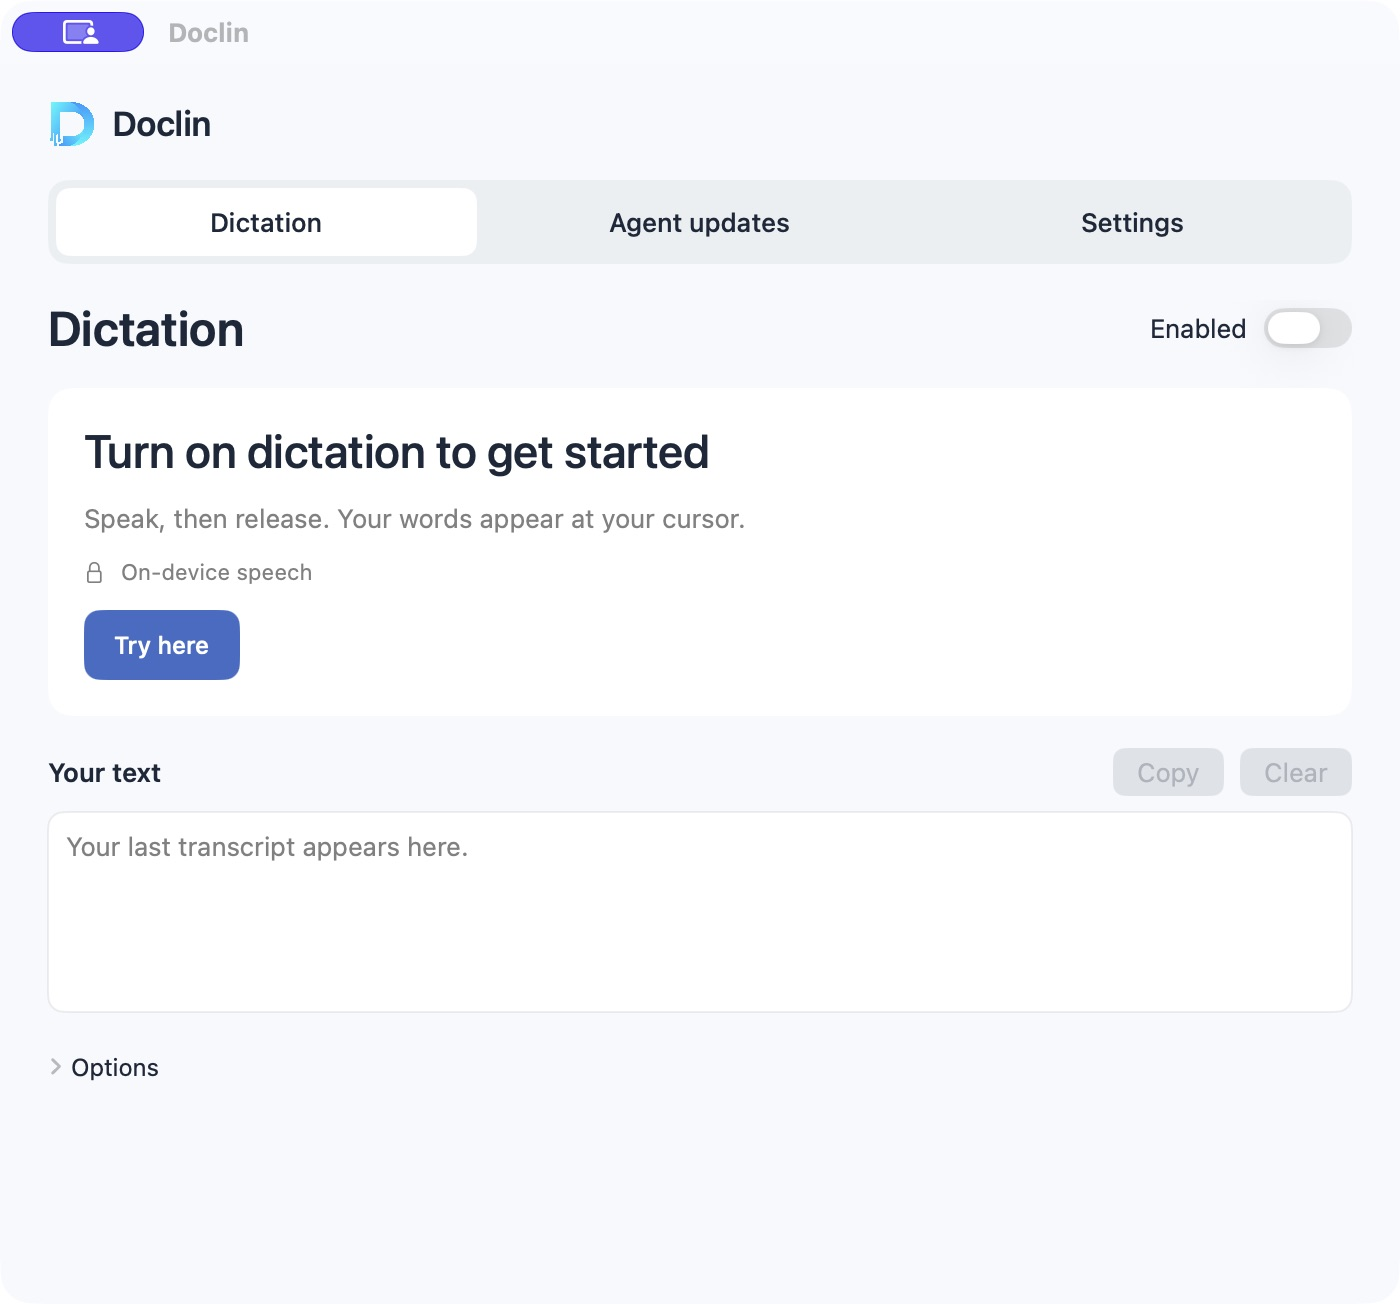
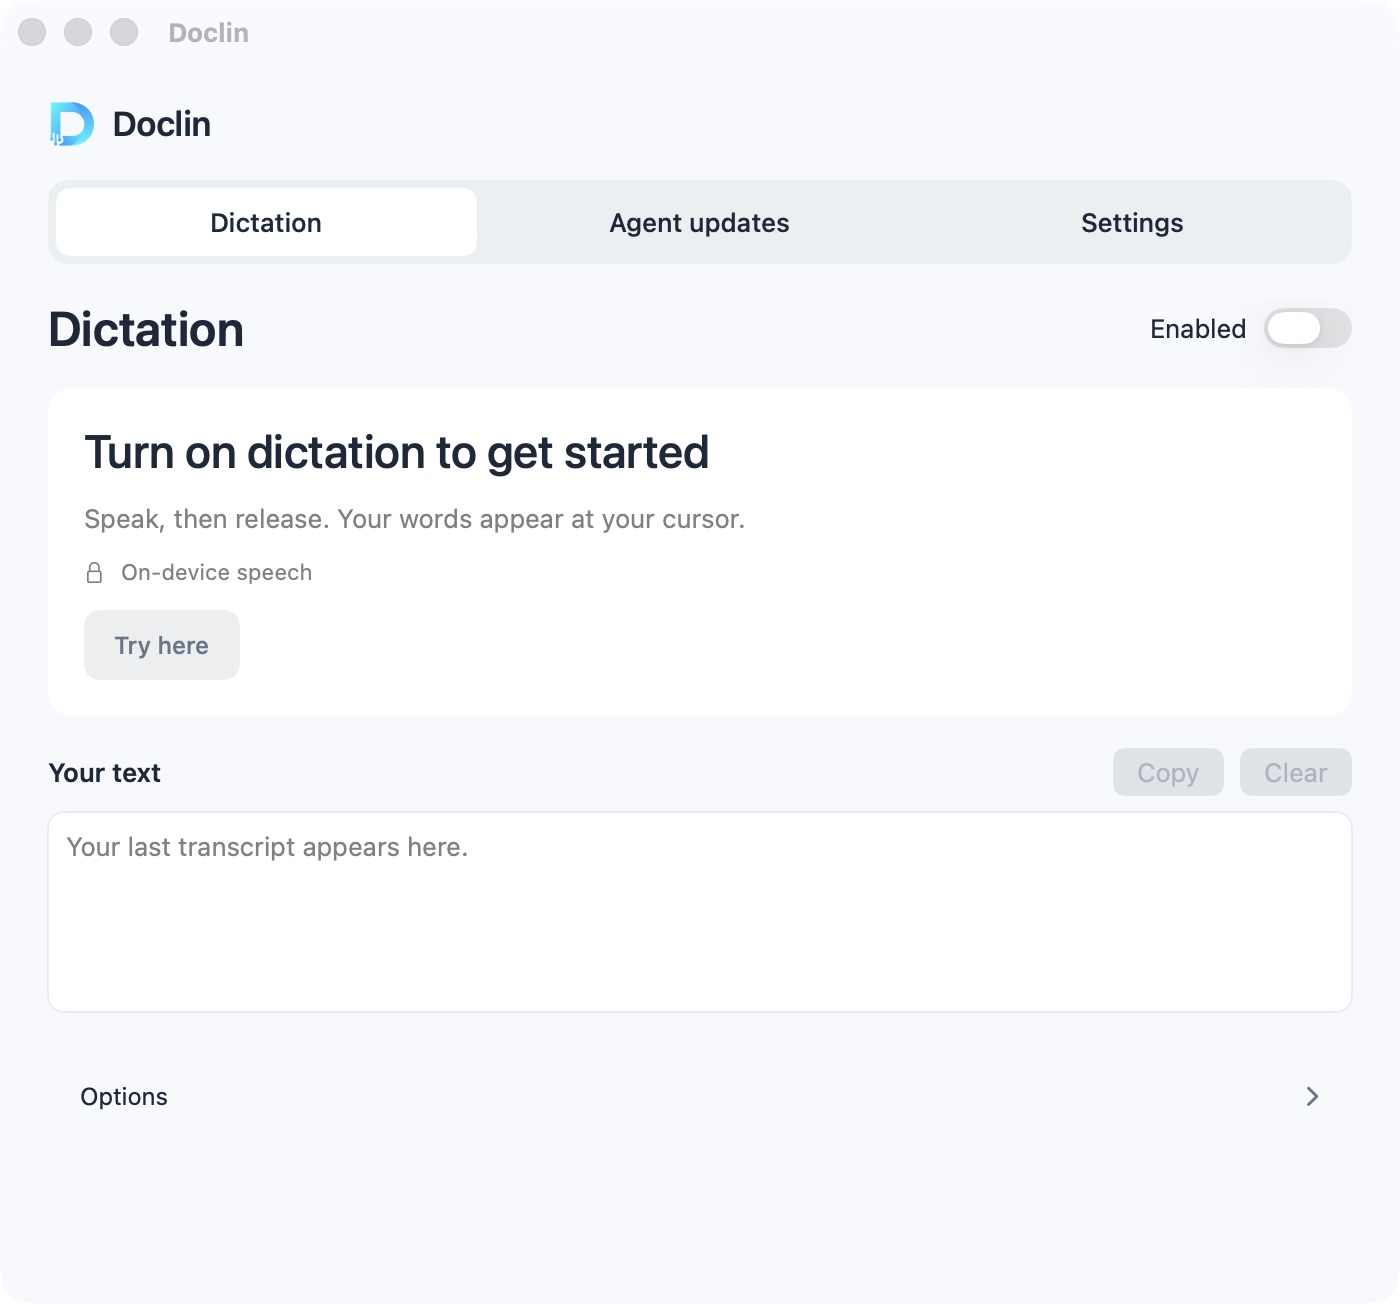
Make Doclin controls responsive and consistently clickable (#8)
* Remove oversized image decoding and hidden controls from tab rendering

* Use whole settings rows and accept first background clicks

* Make unavailable primary actions visibly disabled

* Refresh screenshots for final interactive controls

---------

Changed region(s): [[0.0614, 0.4601, 0.1843, 0.5215], [0.0, 0.0, 0.1229, 0.0613], [0.0307, 0.7975, 0.1229, 0.8589]]

diff --git a/Sources/Doclin/Views.swift b/Sources/Doclin/Views.swift
@@ -8,18 +8,23 @@ private let accent = Color(red: 0.255, green: 0.424, blue: 0.78)
 private let mutedInk = Color(red: 0.40, green: 0.46, blue: 0.54)
 
 struct DoclinView: View {
+    private static let logo: NSImage? = {
+        guard let url = Bundle.main.url(forResource: "DoclinLogo", withExtension: "png") else { return nil }
+        return NSImage(contentsOf: url)
+    }()
     @ObservedObject var model: AppModel
     @State private var apiKey = ""
     @State private var codexPath = ""
     @State private var allUpdates = false
     @State private var cloudOptions = false
+    @State private var hoveredTab: String?
     private var section: String {
         ["Connections", "Voice & AI", "Preferences", "Settings"].contains(model.tab) ? "Settings" : model.tab
     }
     var body: some View {
         VStack(spacing: 0) {
             HStack {
-                if let path = Bundle.main.url(forResource: "DoclinLogo", withExtension: "png"), let logo = NSImage(contentsOf: path) {
+                if let logo = Self.logo {
                     Image(nsImage: logo).resizable().scaledToFit().frame(width: 24, height: 24)
                 } else {
                     Image(systemName: "waveform").foregroundColor(accent)
@@ -32,9 +37,10 @@ struct DoclinView: View {
                     Button { model.tab = name } label: {
                         Text(name == "Activity" ? "Agent updates" : name).font(.system(size: 13, weight: .medium))
                             .frame(maxWidth: .infinity).padding(.vertical, 9)
-                            .background(section == name ? Color.white : .clear, in: RoundedRectangle(cornerRadius: 7))
+                            .background(section == name ? Color.white : hoveredTab == name ? Color.white.opacity(0.55) : .clear, in: RoundedRectangle(cornerRadius: 7))
                             .contentShape(Rectangle())
-                    }.buttonStyle(.plain)
+                    }.buttonStyle(DoclinTabButton()).onHover { hoveredTab = $0 ? name : nil }
+                        .accessibilityValue(section == name ? "Selected" : "")
                 }
             }.padding(4).background(ink.opacity(0.05), in: RoundedRectangle(cornerRadius: 10))
                 .padding(.horizontal, 24).padding(.bottom, 18)
@@ -56,6 +62,8 @@ struct DoclinView: View {
                 }.padding(.horizontal, 24).padding(.bottom, 20)
             }
         }.frame(minWidth: 620, minHeight: 520).background(canvas).foregroundColor(ink).preferredColorScheme(.light)
+        .buttonStyle(.bordered).controlSize(.regular)
+        .disclosureGroupStyle(DoclinDisclosureStyle())
         .onAppear { codexPath = model.preferences.codexHome }
     }
     private var settingsPage: some View {
@@ -68,10 +76,10 @@ struct DoclinView: View {
     }
     private func settingSection<Content: View>(_ title: String, systemImage: String, route: String, @ViewBuilder content: @escaping () -> Content) -> some View {
         DisclosureGroup(isExpanded: Binding(get: { model.tab == route }, set: { model.tab = $0 ? route : "Settings" })) {
-            content().padding(.top, 12)
+            if model.tab == route { content().padding(.top, 12).padding(.horizontal, 16) }
         } label: {
             Label(title, systemImage: systemImage).font(.system(size: 14, weight: .medium))
-        }.padding(16).background(Color.white, in: RoundedRectangle(cornerRadius: 10))
+        }.background(Color.white, in: RoundedRectangle(cornerRadius: 10))
     }
     private var activity: some View {
         VStack(alignment: .leading, spacing: 16) {
@@ -150,7 +158,7 @@ struct DoclinView: View {
                 Text("Runs on your Mac. If playback fails, the update stays in Agent updates.").font(.system(size: 11)).foregroundColor(mutedInk)
                 HStack { Text("Volume").frame(width: 65, alignment: .leading); Slider(value: binding(\.volume), in: 0...1); Text("\(Int(model.preferences.volume * 100))%").frame(width: 35) }.font(.system(size: 12))
                 HStack { Text("Speed").frame(width: 65, alignment: .leading); Slider(value: binding(\.rate), in: 0.8...1.5); Text(String(format: "%.1f×", model.preferences.rate)).frame(width: 35) }.font(.system(size: 12))
-                Button("Preview voice") { model.preview() }.buttonStyle(DoclinButton())
+                Button("Preview voice") { model.preview() }.buttonStyle(DoclinButton()).disabled(model.preferences.muted)
             }
             DisclosureGroup("Cloud features", isExpanded: $cloudOptions) {
               card {
@@ -204,7 +212,42 @@ struct DoclinView: View {
     }
 }
 struct DoclinButton: ButtonStyle {
+    @Environment(\.isEnabled) private var isEnabled
     func makeBody(configuration: Configuration) -> some View {
-        configuration.label.font(.system(size: 12, weight: .medium)).padding(.horizontal, 15).padding(.vertical, 10).foregroundColor(.white).background(accent.opacity(configuration.isPressed ? 0.8 : 1), in: RoundedRectangle(cornerRadius: 8))
+        configuration.label.font(.system(size: 12, weight: .medium)).padding(.horizontal, 15).padding(.vertical, 10)
+            .foregroundColor(isEnabled ? .white : mutedInk)
+            .background(isEnabled ? accent.opacity(configuration.isPressed ? 0.8 : 1) : ink.opacity(0.08), in: RoundedRectangle(cornerRadius: 8))
+            .contentShape(Rectangle())
+    }
+}
+struct DoclinTabButton: ButtonStyle {
+    func makeBody(configuration: Configuration) -> some View {
+        configuration.label.opacity(configuration.isPressed ? 0.65 : 1).contentShape(Rectangle())
+    }
+}
+struct DoclinDisclosureStyle: DisclosureGroupStyle {
+    func makeBody(configuration: Configuration) -> some View {
+        DoclinDisclosureRow(configuration: configuration)
+    }
+}
+private struct DoclinDisclosureRow: View {
+    let configuration: DisclosureGroupStyleConfiguration
+    @State private var hovered = false
+    var body: some View {
+        VStack(alignment: .leading, spacing: 0) {
+            Button { configuration.isExpanded.toggle() } label: {
+                HStack(spacing: 10) {
+                    configuration.label
+                    Spacer(minLength: 12)
+                    Image(systemName: configuration.isExpanded ? "chevron.down" : "chevron.right")
+                        .font(.system(size: 11, weight: .semibold)).foregroundColor(mutedInk)
+                        .accessibilityHidden(true)
+                }.frame(maxWidth: .infinity, minHeight: 44, alignment: .leading)
+                    .padding(.horizontal, 16).padding(.vertical, 4).contentShape(Rectangle())
+                    .background(hovered ? accent.opacity(0.06) : .clear, in: RoundedRectangle(cornerRadius: 7))
+            }.buttonStyle(DoclinTabButton()).onHover { hovered = $0 }
+                .accessibilityValue(configuration.isExpanded ? "Expanded" : "Collapsed")
+            if configuration.isExpanded { configuration.content.padding(.bottom, 12) }
+        }
     }
 }

diff --git a/Sources/Doclin/main.swift b/Sources/Doclin/main.swift
@@ -2,6 +2,12 @@ import AppKit
 import SwiftUI
 import DoclinCore
 
+final class DoclinHostingView<Content: View>: NSHostingView<Content> {
+    // A background-window click should activate its control as well as focus
+    // Doclin, rather than requiring a second click after activation.
+    override func acceptsFirstMouse(for event: NSEvent?) -> Bool { true }
+}
+
 // Hook mode does no UI work, network requests, or agent control. Always fail open.
 if CommandLine.arguments.contains("--doclin-hook") {
     let args = CommandLine.arguments
@@ -53,7 +59,7 @@ if CommandLine.arguments.contains("--doclin-hook") {
         window.title = "Doclin"
         window.titlebarAppearsTransparent = true
         window.backgroundColor = NSColor(calibratedRed: 0.965, green: 0.975, blue: 0.99, alpha: 1)
-        window.contentView = NSHostingView(rootView: DoclinView(model: model))
+        window.contentView = DoclinHostingView(rootView: DoclinView(model: model))
         window.minSize = NSSize(width: 640, height: 560)
         window.isReleasedWhenClosed = false; window.center()
         item = NSStatusBar.system.statusItem(withLength: NSStatusItem.squareLength)

diff --git a/Sources/Doclin/DictationController.swift b/Sources/Doclin/DictationController.swift
@@ -147,9 +147,12 @@ import DoclinCore
     }
     private var audioFolder: URL { DoclinPaths.support.appendingPathComponent("dictation-audio") }
     func refreshPermissions() {
-        microphoneGranted = AVCaptureDevice.authorizationStatus(for: .audio) == .authorized
-        speechGranted = SFSpeechRecognizer.authorizationStatus() == .authorized
-        accessibilityGranted = AXIsProcessTrusted()
+        let microphone = AVCaptureDevice.authorizationStatus(for: .audio) == .authorized
+        let speech = SFSpeechRecognizer.authorizationStatus() == .authorized
+        let accessibility = AXIsProcessTrusted()
+        if microphoneGranted != microphone { microphoneGranted = microphone }
+        if speechGranted != speech { speechGranted = speech }
+        if accessibilityGranted != accessibility { accessibilityGranted = accessibility }
         if settings.enabled && settings.shortcut == "right-command" && accessibilityGranted != shortcutReady { configureHotkey() }
         updateIndicator()
     }

diff --git a/Sources/Doclin/AppModel.swift b/Sources/Doclin/AppModel.swift
@@ -47,7 +47,7 @@ struct Announcement: Identifiable {
     private var apiCalls = 0
     private var apiDay = Calendar.current.startOfDay(for: Date())
     private let settingsURL = FileManager.default.homeDirectoryForCurrentUser.appendingPathComponent(".claude/settings.json")
-    var voices: [AVSpeechSynthesisVoice] { AVSpeechSynthesisVoice.speechVoices().filter { $0.language.hasPrefix("en") }.sorted { $0.name < $1.name } }
+    lazy var voices: [AVSpeechSynthesisVoice] = AVSpeechSynthesisVoice.speechVoices().filter { $0.language.hasPrefix("en") }.sorted { $0.name < $1.name }
     override init() {
         super.init()
         key = Keychain.read(); hasKey = key != nil

diff --git a/RELEASE.md b/RELEASE.md
@@ -1,5 +1,7 @@
-# Doclin 0.4.12 — Reliable tab clicks
+# Doclin 0.4.13 — Responsive controls
 
-The whole Dictation, Agent updates and Settings tab is now clickable, including blank space around its label. Previously the plain SwiftUI buttons only responded around their text. The layout stays unchanged.
+The whole settings header now expands on one click, with consistent 44-point targets, hover/pressed feedback, and separate child controls. Doclin accepts the first click when its window is in the background. Full-width tab targets remain.
 
-Validation: reproduced missed clicks outside labels, checked edge and corner clicks on all three tabs in the signed app, universal build, strict signature verification and core/cloud checks. Dictation remains paused on the installed Mac. Development-signed preview, not notarized.
+The header caches a 96-pixel logo instead of repeatedly decoding the original 7,400-pixel artwork. Closed sections no longer construct hidden controls or query voices, and unchanged permission polling does not trigger redraws.
+
+Verification: native tab/row/nested-control audit, disabled controls and persisted switches, before/after main-thread sampling, universal build and strict signature validation, core/cloud checks and independent review. Dictation remains paused on the installed Mac. Development-signed preview, not notarized.

diff --git a/PACKAGING.md b/PACKAGING.md
@@ -40,11 +40,11 @@ Application certificate, and notarization credentials. None are in this repo.
 
 ```sh
 UNIVERSAL=1 SIGN_IDENTITY='Developer ID Application: YOUR NAME (TEAMID)' ./scripts/build.sh
-xcrun notarytool submit .build/signed-dist/Doclin-0.4.12-mac.zip --keychain-profile doclin-notary --wait
+xcrun notarytool submit .build/signed-dist/Doclin-0.4.13-mac.zip --keychain-profile doclin-notary --wait
 xcrun stapler staple .build/signed-dist/Doclin.app
 codesign --verify --deep --strict .build/signed-dist/Doclin.app
 spctl --assess --type execute --verbose .build/signed-dist/Doclin.app
-ditto -c -k --sequesterRsrc --keepParent .build/signed-dist/Doclin.app .build/signed-dist/Doclin-0.4.12-mac.zip
+ditto -c -k --sequesterRsrc --keepParent .build/signed-dist/Doclin.app .build/signed-dist/Doclin-0.4.13-mac.zip
 ```
 
 Inspect the exact ZIP contents before upload. Include the third-party license

diff --git a/docs/site/index.md b/docs/site/index.md
@@ -5,7 +5,7 @@ layout: page
 <div class="doclin-home">
   <h1>Dictate text. Hear your agents.</h1>
   <p class="lead">Dictation and spoken coding updates for Mac. Free and local by default.</p>
-  <a class="download" href="https://github.com/shawonibnkamal/doclin-macos/releases/download/v0.4.12/Doclin-0.4.12-mac.zip">Download Doclin for Mac</a>
+  <a class="download" href="https://github.com/shawonibnkamal/doclin-macos/releases/download/v0.4.13/Doclin-0.4.13-mac.zip">Download Doclin for Mac</a>
   <p class="download-note">macOS 13+ · Preview build · Not notarized</p>
   <p class="small-links"><a href="/setup">Installation help</a> · <a href="https://github.com/shawonibnkamal/doclin-macos">Source code</a></p>
   <img class="app-shot" src="/images/doclin-app.png" alt="Doclin's compact dictation window, with agent updates one click away" width="1400" height="1304" />

diff --git a/README.md b/README.md
@@ -16,7 +16,7 @@ See [dictation checks and limitations](DICTATION-QUALITY-QA.md).
 
 ## Download for Mac
 
-[Download Doclin 0.4.12](https://github.com/shawonibnkamal/doclin-macos/releases/download/v0.4.12/Doclin-0.4.12-mac.zip).
+[Download Doclin 0.4.13](https://github.com/shawonibnkamal/doclin-macos/releases/download/v0.4.13/Doclin-0.4.13-mac.zip).
 Unzip, move Doclin.app to Applications, and turn on Dictation. Allow Microphone
 and Accessibility, then hold Right Command in a text field to speak.
 

diff --git a/docs/site/setup.md b/docs/site/setup.md
@@ -1,6 +1,6 @@
 # Install Doclin
 
-[Download Doclin for Mac](https://github.com/shawonibnkamal/doclin-macos/releases/download/v0.4.12/Doclin-0.4.12-mac.zip).
+[Download Doclin for Mac](https://github.com/shawonibnkamal/doclin-macos/releases/download/v0.4.13/Doclin-0.4.13-mac.zip).
 
 1. Unzip the download and move **Doclin.app** to Applications.
 2. Open Doclin and turn on **Dictation**.
